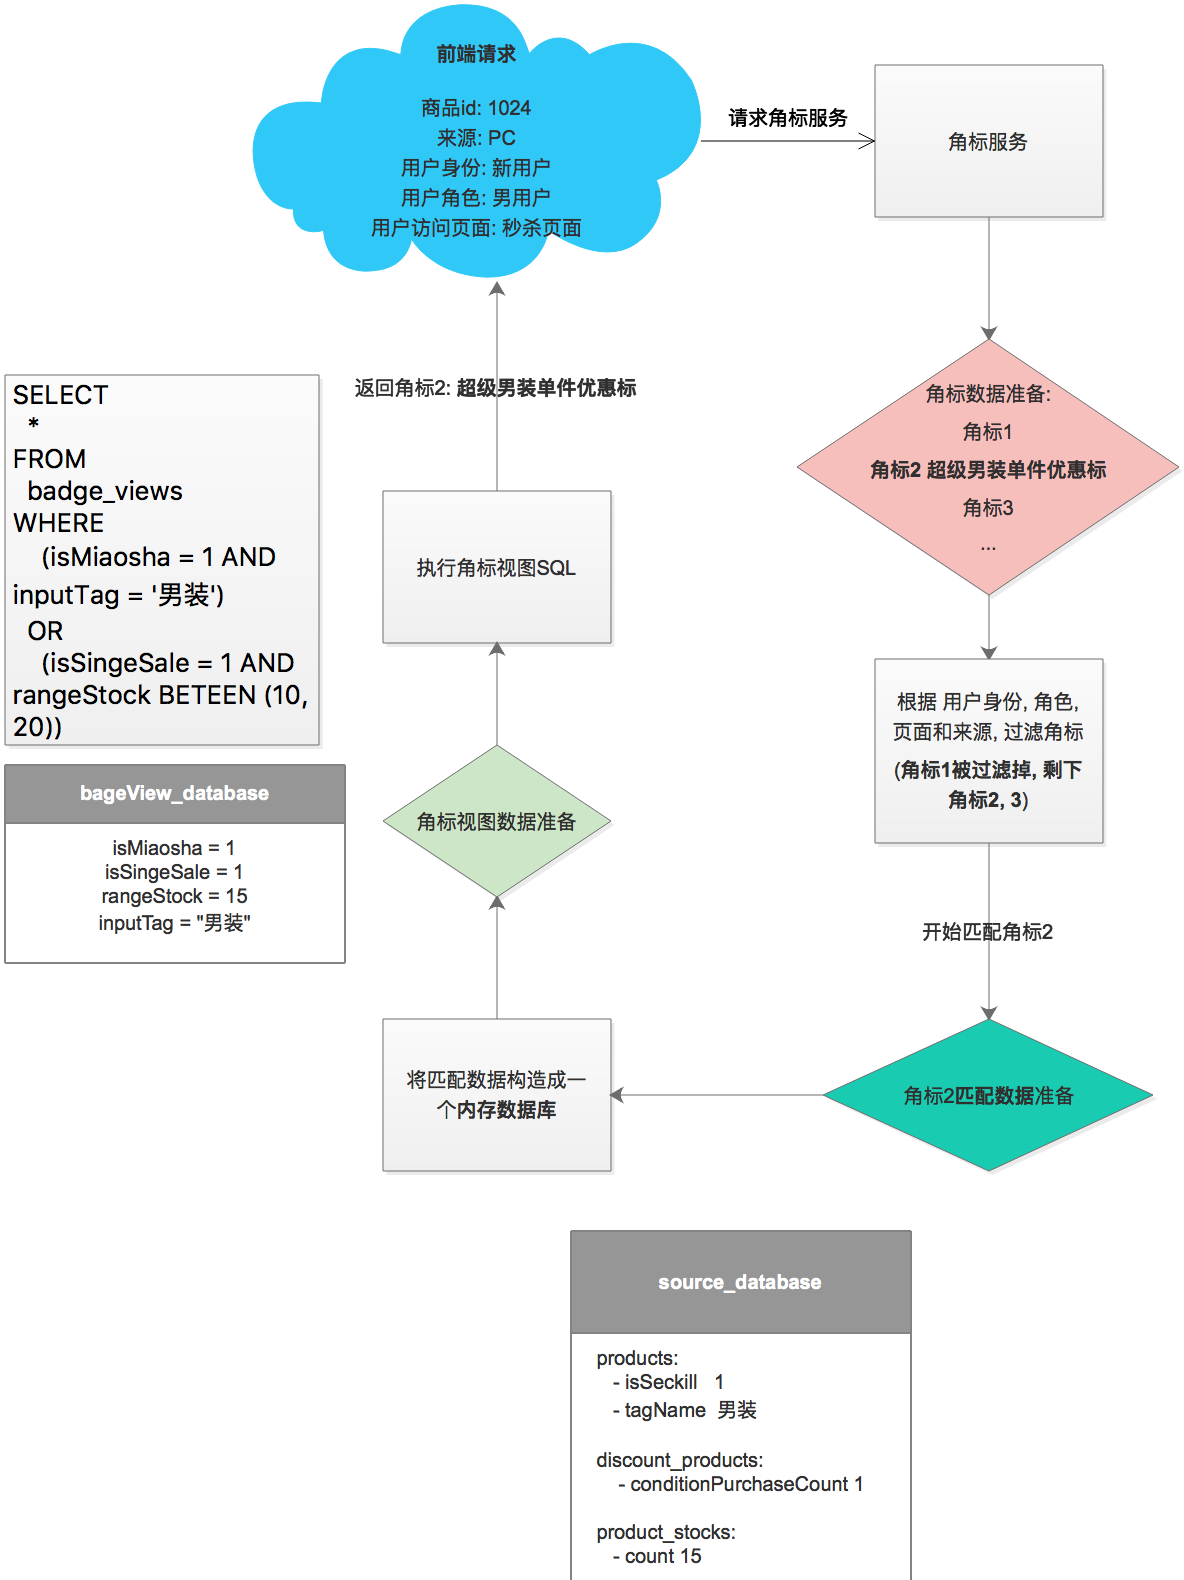
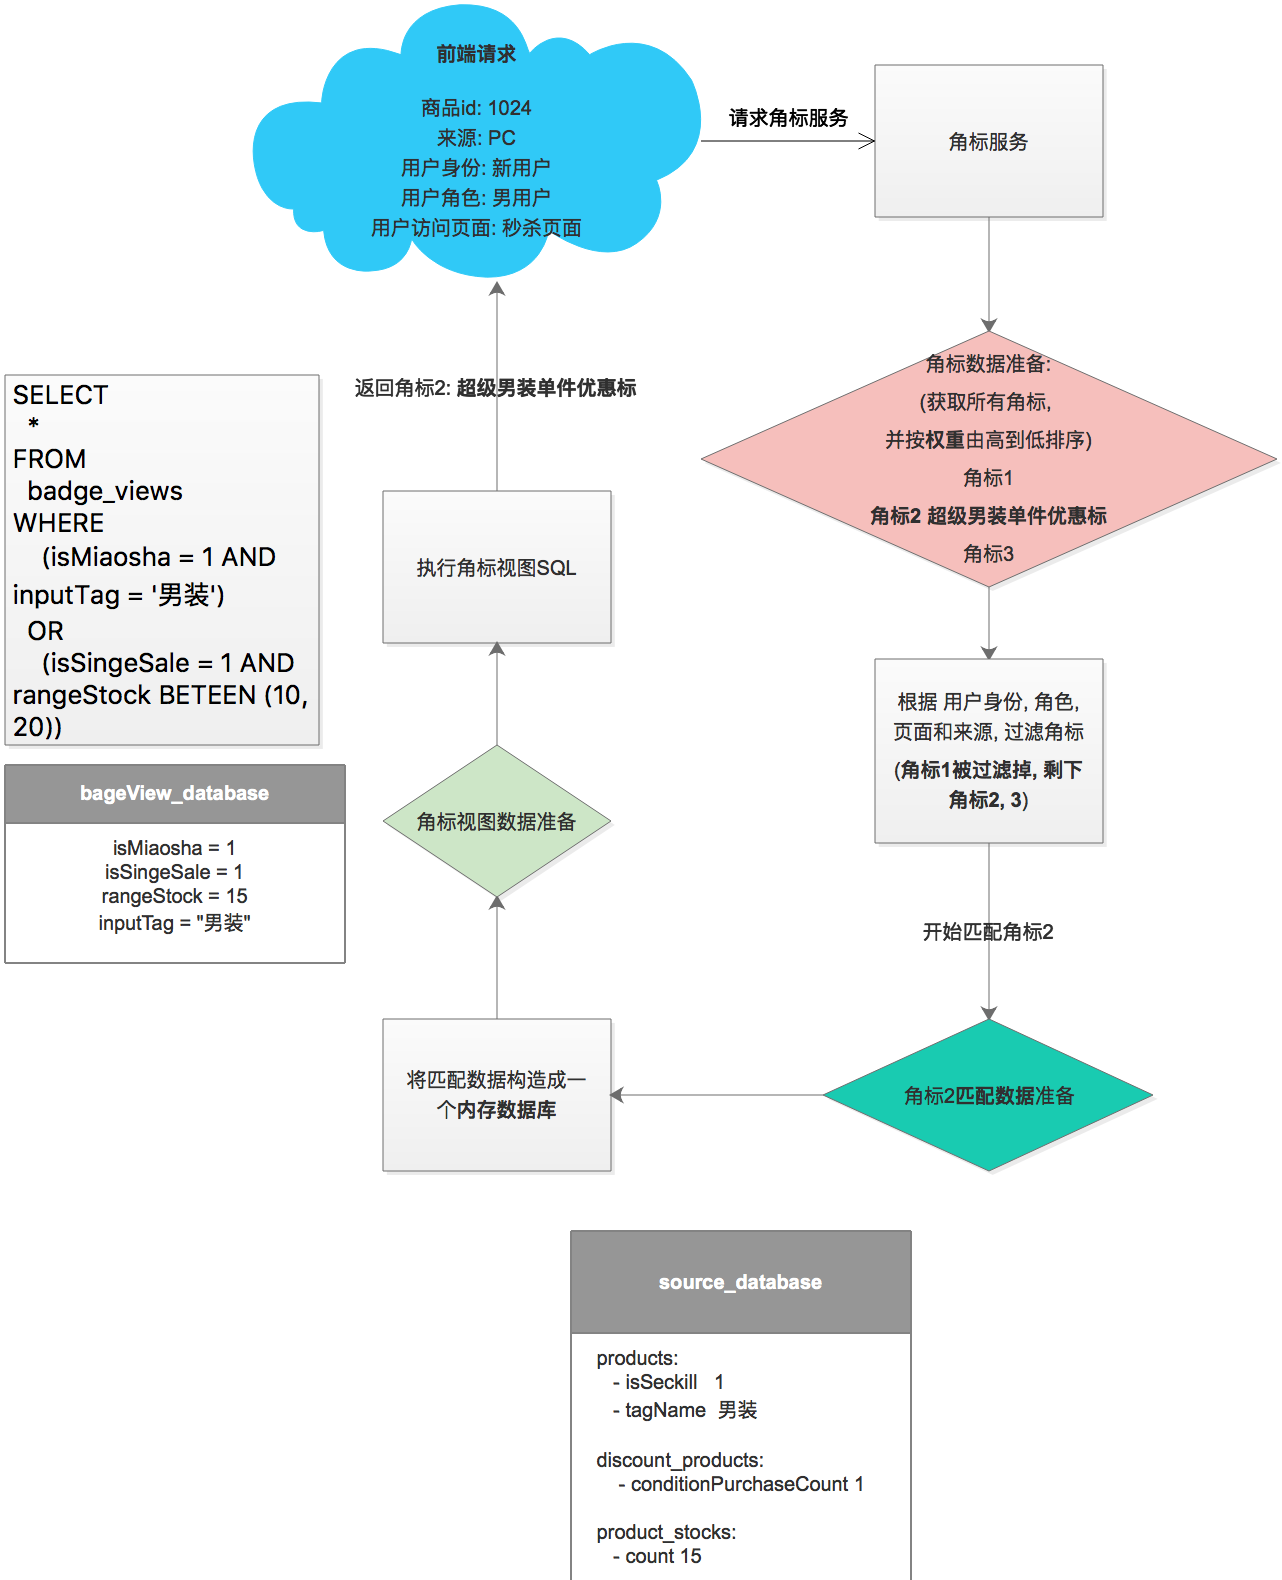
change badge procedure

diff --git a/source/badge_system.md b/source/badge_system.md
@@ -133,7 +133,7 @@ NOTE: 坑位: 指一个商品的展示位置
 
 - 我想给 所有 "**参加**秒杀活动的商品" 添加一个角标
 - 我想给 "分类 **等于** 男装 **而且** 尺码 **>** XXL的商品" 添加一个角标
-- 我想给 "库存 **>** 0 而且 **<** 10 的商品" 添加一个角标
+- 我想给 "库存 **>** 0 **而且** **<** 10 的商品" 添加一个角标
 - 我想给 所有 "**是**单件优惠的商品" 添加一个角标
 
 根据下面的这些情况, 我们总结如下
@@ -263,10 +263,14 @@ public class SqlRunnerTest {
         sqlRunner = new SqlRunner("merchant_system", database);
         sql = "SELECT \n"
                 + "\"products\".\"id\", \"sellers\".\"name\" \n"
-                + "FROM \"merchant_system\".\"products\" \n"
-                + "INNER JOIN \"merchant_system\".\"sellers\" \n"
-                + "ON \"merchant_system\".\"sellers\".\"id\" = \"merchant_system\".\"products\".\"sellerId\" \n"
-                + "WHERE \"sellers\".\"name\" = 'dengqinghua'";
+                + "FROM \n"
+                + " \"merchant_system\".\"products\" \n"
+                + "INNER JOIN \n"
+                + " \"merchant_system\".\"sellers\" \n"
+                + "ON \n"
+                + " \"merchant_system\".\"sellers\".\"id\" = \"merchant_system\".\"products\".\"sellerId\" \n"
+                + "WHERE \n"
+                + " \"sellers\".\"name\" = 'dengqinghua'";
 
         Result<Record> result = sqlRunner.run(sql);
         assertThat(result.format(), is(
@@ -502,8 +506,7 @@ WHERE
 
 这个就是角标视图的sql
 
-NOTE: 为什么叫做角标视图? 因为角标所需要的数据, 和真实系统存在的数据是不一样的, 比如角标的 `是否是单件优惠` isSingeSale 字段, 在真实系统是不存在的, 而这个字段其实是一个SQL的Map: isSingeSale => SELECT true FROM discount_products WHERE conditionPurchaseCount = 1, 我们称之为视图.
-
+NOTE: 为什么叫做角标视图? 因为角标所需要的数据, 和真实系统存在的数据是不一样的, 比如角标的 `是否是秒杀` isMiaosha 字段, 在真实业务系统是不存在的, 而这个字段其实是一个SQL的Map: isMiaosha => SELECT 1 FROM products WHERE isSeckill = 1, 我们称之为视图.
 
 所以我们会建立一个角标的数据库
 
@@ -641,12 +644,11 @@ public class SqlRunner {
 测试代码中, 每一次查询都是重新创建一个新的连接. 创建连接是非常耗时的. 最终, 我们选择使用了 connection_pool, 在项目启动的时候, 预生成一些连接
 
 ```java
-static Connection[poolSize] connectionPools;
+static final int POOL_SIZE = Runtime.getRuntime().availableProcessors() * 2 + 1;
+static Connection[POOL_SIZE] connectionPools;
 
 static {
-    int poolSize = Runtime.getRuntime().availableProcessors() * 2 + 1;
-
-    IntStream.range(0, poolSize).forEach(i -> {
+    IntStream.range(0, POOL_SIZE).forEach(i -> {
           connectionPools[i] = createConnection;
     })
 }
